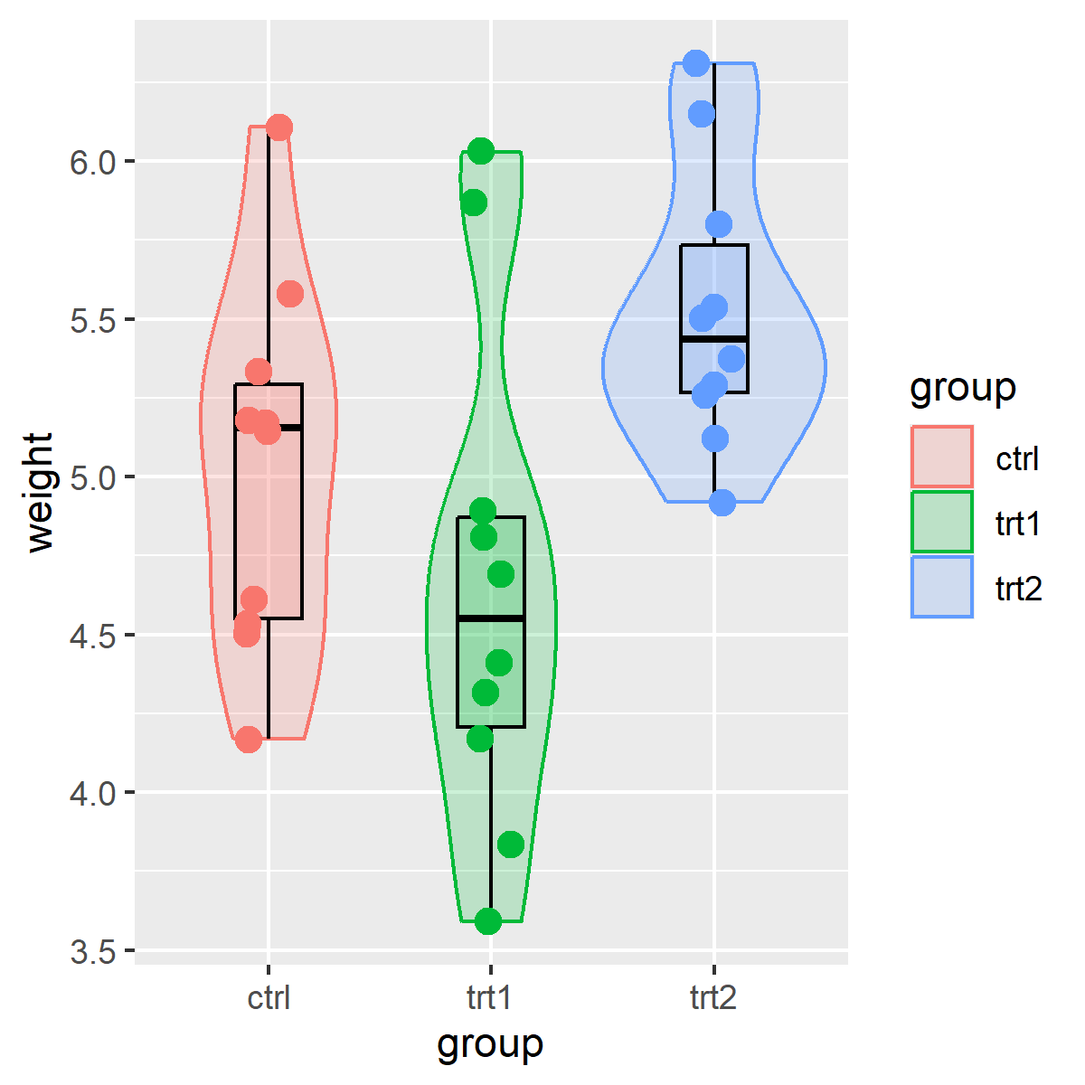
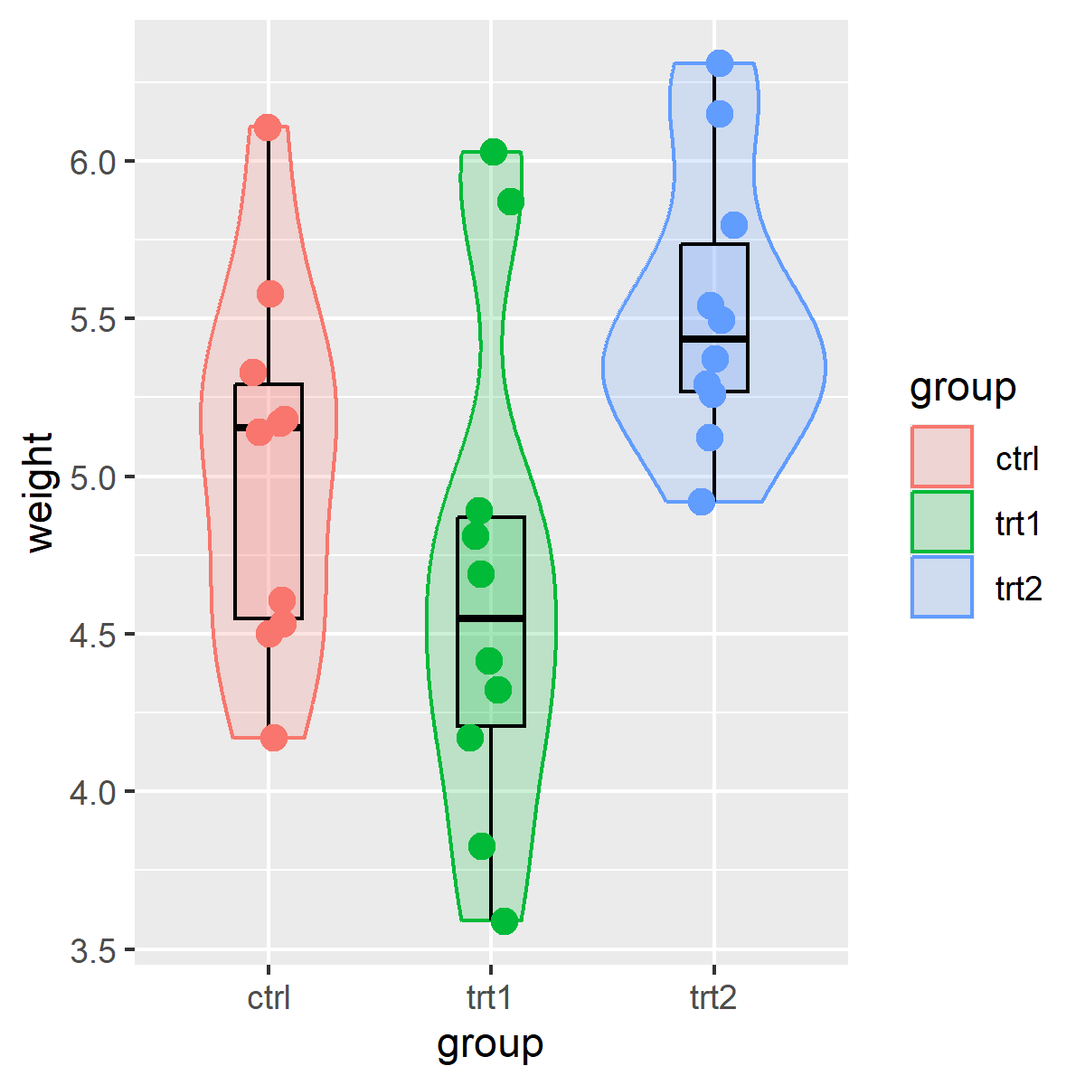
.

diff --git a/docs/posts/ggstatsplot/index.html b/docs/posts/ggstatsplot/index.html
@@ -219,46 +219,55 @@ pre > code.sourceCode > span > a:first-child::before { text-decoration: underlin
 
 <p><strong>Cần sắp xếp theo đúng thứ tự cột <code>x_ok</code> rồi mới vẽ đồ thị.</strong></p>
 <p><strong>Chỗ lệnh <code>p_gtable$grobs[[5]]</code>, thỉnh thoảng version cũ <code>ggplot2</code> sẽ chỉnh về <code>p_gtable$grobs[[6]]</code> hoặc ta sẽ dò thủ công lại vị trí của các grid object này.</strong></p>
+<p><strong>Download dataset <a href="https://filedn.com/lesyJpQOCafj7katNqunAxu/SHARE/df2.rds"><code>df2</code></a></strong></p>
 <div class="cell">
-<div class="code-copy-outer-scaffold"><div class="sourceCode cell-code" id="cb1"><pre class="sourceCode r code-with-copy"><code class="sourceCode r"><span id="cb1-1"><a href="#cb1-1" aria-hidden="true" tabindex="-1"></a>df <span class="ot">&lt;-</span> PlantGrowth</span>
-<span id="cb1-2"><a href="#cb1-2" aria-hidden="true" tabindex="-1"></a><span class="fu">names</span>(df) <span class="ot">&lt;-</span> <span class="fu">c</span>(<span class="st">"y_ok"</span>, <span class="st">"x_ok"</span>)</span>
-<span id="cb1-3"><a href="#cb1-3" aria-hidden="true" tabindex="-1"></a></span>
-<span id="cb1-4"><a href="#cb1-4" aria-hidden="true" tabindex="-1"></a><span class="fu">library</span>(dplyr)</span>
-<span id="cb1-5"><a href="#cb1-5" aria-hidden="true" tabindex="-1"></a>df <span class="sc">|&gt;</span> dplyr<span class="sc">:::</span><span class="fu">arrange</span>(x_ok) <span class="ot">-&gt;</span> df</span>
-<span id="cb1-6"><a href="#cb1-6" aria-hidden="true" tabindex="-1"></a></span>
-<span id="cb1-7"><a href="#cb1-7" aria-hidden="true" tabindex="-1"></a>df</span></code></pre></div><button title="Copy to Clipboard" class="code-copy-button"><i class="bi"></i></button></div>
+<div class="code-copy-outer-scaffold"><div class="sourceCode cell-code" id="cb1"><pre class="sourceCode r code-with-copy"><code class="sourceCode r"><span id="cb1-1"><a href="#cb1-1" aria-hidden="true" tabindex="-1"></a><span class="co"># df &lt;- PlantGrowth</span></span>
+<span id="cb1-2"><a href="#cb1-2" aria-hidden="true" tabindex="-1"></a><span class="co"># names(df) &lt;- c("y_ok", "x_ok")</span></span>
+<span id="cb1-3"><a href="#cb1-3" aria-hidden="true" tabindex="-1"></a><span class="co"># </span></span>
+<span id="cb1-4"><a href="#cb1-4" aria-hidden="true" tabindex="-1"></a><span class="co"># library(dplyr)</span></span>
+<span id="cb1-5"><a href="#cb1-5" aria-hidden="true" tabindex="-1"></a><span class="co"># df |&gt; dplyr:::arrange(x_ok) -&gt; df</span></span>
+<span id="cb1-6"><a href="#cb1-6" aria-hidden="true" tabindex="-1"></a><span class="co"># </span></span>
+<span id="cb1-7"><a href="#cb1-7" aria-hidden="true" tabindex="-1"></a><span class="co"># df</span></span>
+<span id="cb1-8"><a href="#cb1-8" aria-hidden="true" tabindex="-1"></a></span>
+<span id="cb1-9"><a href="#cb1-9" aria-hidden="true" tabindex="-1"></a>df <span class="ot">&lt;-</span> <span class="fu">readRDS</span>(<span class="fu">paste0</span>(<span class="fu">getwd</span>(), <span class="st">"/df2.rds"</span>))</span>
+<span id="cb1-10"><a href="#cb1-10" aria-hidden="true" tabindex="-1"></a></span>
+<span id="cb1-11"><a href="#cb1-11" aria-hidden="true" tabindex="-1"></a>df <span class="ot">&lt;-</span> df[ , <span class="sc">-</span><span class="dv">5</span>]</span>
+<span id="cb1-12"><a href="#cb1-12" aria-hidden="true" tabindex="-1"></a></span>
+<span id="cb1-13"><a href="#cb1-13" aria-hidden="true" tabindex="-1"></a></span>
+<span id="cb1-14"><a href="#cb1-14" aria-hidden="true" tabindex="-1"></a><span class="fu">library</span>(dplyr)</span>
+<span id="cb1-15"><a href="#cb1-15" aria-hidden="true" tabindex="-1"></a>df <span class="sc">|&gt;</span> dplyr<span class="sc">:::</span><span class="fu">arrange</span>(STUDY_ARM) <span class="ot">-&gt;</span> df</span>
+<span id="cb1-16"><a href="#cb1-16" aria-hidden="true" tabindex="-1"></a></span>
+<span id="cb1-17"><a href="#cb1-17" aria-hidden="true" tabindex="-1"></a>df</span></code></pre></div><button title="Copy to Clipboard" class="code-copy-button"><i class="bi"></i></button></div>
 <div class="cell-output cell-output-stdout">
-<pre><code>   y_ok x_ok
-1  4.17 ctrl
-2  5.58 ctrl
-3  5.18 ctrl
-4  6.11 ctrl
-5  4.50 ctrl
-6  4.61 ctrl
-7  5.17 ctrl
-8  4.53 ctrl
-9  5.33 ctrl
-10 5.14 ctrl
-11 4.81 trt1
-12 4.17 trt1
-13 4.41 trt1
-14 3.59 trt1
-15 5.87 trt1
-16 3.83 trt1
-17 6.03 trt1
-18 4.89 trt1
-19 4.32 trt1
-20 4.69 trt1
-21 6.31 trt2
-22 5.12 trt2
-23 5.54 trt2
-24 5.50 trt2
-25 5.37 trt2
-26 5.29 trt2
-27 4.92 trt2
-28 6.15 trt2
-29 5.80 trt2
-30 5.26 trt2</code></pre>
+<pre><code>   STUDY_ID     STUDY_ARM BEGIN_CD3+_T_CELL_FREQ FU_CD3+_T_CELL_FREQ_ok
+1      ID_1   CONTROL_OLD              12.063157              12.063157
+2      ID_2   CONTROL_OLD              10.964920              10.964920
+3      ID_4   CONTROL_OLD              13.720531              13.720531
+4      ID_5   CONTROL_OLD              10.207501              10.207501
+5      ID_6   CONTROL_OLD              10.781260              10.781260
+6      ID_7   CONTROL_OLD               8.561287               8.561287
+7      ID_9   CONTROL_OLD              12.419222              12.419222
+8     ID_11   CONTROL_OLD               9.877577               9.877577
+9     ID_12   CONTROL_OLD              11.327839              11.327839
+10    ID_15   CONTROL_OLD              12.618815              12.618815
+11    ID_16   CONTROL_OLD               9.354778               9.354778
+12    ID_18   CONTROL_OLD              10.481444              10.481444
+13    ID_19   CONTROL_OLD              10.954867              10.954867
+14    ID_29   CONTROL_OLD              10.438020              10.438020
+15    ID_21 CONTROL_YOUNG              12.011571              12.011571
+16    ID_23 CONTROL_YOUNG              12.267157              12.267157
+17    ID_27 CONTROL_YOUNG               9.660034               9.660034
+18    ID_28 CONTROL_YOUNG              12.845677              12.845677
+19     ID_3          YEGD               6.135557              15.411331
+20     ID_8          YEGD              10.378400              36.150698
+21    ID_10          YEGD               4.698543              53.858413
+22    ID_17          YEGD               4.883078              30.915139
+23    ID_20          YEGD              10.257006              12.503797
+24    ID_22          YEGD               9.304376              45.202878
+25    ID_24          YEGD               9.591158               8.710753
+26    ID_25          YEGD              10.470832              10.584096
+27    ID_26          YEGD              12.824044              42.963687
+28    ID_30          YEGD               9.466437              62.817237</code></pre>
 </div>
 </div>
 <div class="cell">
@@ -268,8 +277,8 @@ pre > code.sourceCode > span > a:first-child::before { text-decoration: underlin
 <span id="cb3-4"><a href="#cb3-4" aria-hidden="true" tabindex="-1"></a><span class="fu">library</span>(gridExtra)</span>
 <span id="cb3-5"><a href="#cb3-5" aria-hidden="true" tabindex="-1"></a></span>
 <span id="cb3-6"><a href="#cb3-6" aria-hidden="true" tabindex="-1"></a><span class="fu">png</span>(<span class="at">filename =</span> <span class="fu">paste0</span>(<span class="fu">getwd</span>(), <span class="st">"/g1.png"</span>),</span>
-<span id="cb3-7"><a href="#cb3-7" aria-hidden="true" tabindex="-1"></a>    <span class="at">width =</span> <span class="dv">6</span>,</span>
-<span id="cb3-8"><a href="#cb3-8" aria-hidden="true" tabindex="-1"></a>    <span class="at">height =</span> <span class="dv">6</span>,</span>
+<span id="cb3-7"><a href="#cb3-7" aria-hidden="true" tabindex="-1"></a>    <span class="at">width =</span> <span class="dv">8</span>,</span>
+<span id="cb3-8"><a href="#cb3-8" aria-hidden="true" tabindex="-1"></a>    <span class="at">height =</span> <span class="dv">8</span>,</span>
 <span id="cb3-9"><a href="#cb3-9" aria-hidden="true" tabindex="-1"></a>    <span class="at">units =</span> <span class="st">"in"</span>,</span>
 <span id="cb3-10"><a href="#cb3-10" aria-hidden="true" tabindex="-1"></a>    <span class="at">res =</span> <span class="dv">300</span>)</span>
 <span id="cb3-11"><a href="#cb3-11" aria-hidden="true" tabindex="-1"></a></span>
@@ -280,75 +289,88 @@ pre > code.sourceCode > span > a:first-child::before { text-decoration: underlin
 <span id="cb3-16"><a href="#cb3-16" aria-hidden="true" tabindex="-1"></a><span class="co"># options(pillar.sigfig = 4)</span></span>
 <span id="cb3-17"><a href="#cb3-17" aria-hidden="true" tabindex="-1"></a></span>
 <span id="cb3-18"><a href="#cb3-18" aria-hidden="true" tabindex="-1"></a></span>
-<span id="cb3-19"><a href="#cb3-19" aria-hidden="true" tabindex="-1"></a>p1 <span class="ot">&lt;-</span> <span class="fu">ggbetweenstats</span>(<span class="at">data =</span> df,</span>
-<span id="cb3-20"><a href="#cb3-20" aria-hidden="true" tabindex="-1"></a>                     <span class="at">x =</span> x_ok,</span>
-<span id="cb3-21"><a href="#cb3-21" aria-hidden="true" tabindex="-1"></a>                     <span class="at">y =</span> y_ok,</span>
-<span id="cb3-22"><a href="#cb3-22" aria-hidden="true" tabindex="-1"></a>                     <span class="at">type =</span> <span class="st">"nonparametric"</span>, </span>
-<span id="cb3-23"><a href="#cb3-23" aria-hidden="true" tabindex="-1"></a>                     <span class="at">plot.type =</span> <span class="st">"box"</span>,</span>
-<span id="cb3-24"><a href="#cb3-24" aria-hidden="true" tabindex="-1"></a>                     <span class="at">pairwise.comparisons =</span> T,</span>
-<span id="cb3-25"><a href="#cb3-25" aria-hidden="true" tabindex="-1"></a>                     <span class="at">pairwise.display =</span> <span class="st">"significant"</span>,</span>
-<span id="cb3-26"><a href="#cb3-26" aria-hidden="true" tabindex="-1"></a>                     <span class="at">p.adjust.method =</span> <span class="st">"bonferroni"</span>,</span>
-<span id="cb3-27"><a href="#cb3-27" aria-hidden="true" tabindex="-1"></a>                     <span class="at">centrality.plotting =</span> F,</span>
-<span id="cb3-28"><a href="#cb3-28" aria-hidden="true" tabindex="-1"></a>                     <span class="at">centrality.path =</span> <span class="cn">FALSE</span>,</span>
-<span id="cb3-29"><a href="#cb3-29" aria-hidden="true" tabindex="-1"></a>                     <span class="at">digits =</span> <span class="dv">4</span>L,</span>
-<span id="cb3-30"><a href="#cb3-30" aria-hidden="true" tabindex="-1"></a>                     <span class="at">ggtheme =</span> <span class="fu">theme_classic</span>(<span class="at">base_size =</span> <span class="dv">14</span>),</span>
-<span id="cb3-31"><a href="#cb3-31" aria-hidden="true" tabindex="-1"></a>                     <span class="at">bf.message =</span> F,</span>
-<span id="cb3-32"><a href="#cb3-32" aria-hidden="true" tabindex="-1"></a>                     <span class="at">results.subtitle =</span> F,</span>
-<span id="cb3-33"><a href="#cb3-33" aria-hidden="true" tabindex="-1"></a>                     <span class="at">caption =</span> <span class="st">""</span>,</span>
-<span id="cb3-34"><a href="#cb3-34" aria-hidden="true" tabindex="-1"></a>                     <span class="at">ggsignif.args =</span> <span class="fu">list</span>(<span class="at">size =</span> <span class="fl">0.5</span>,</span>
-<span id="cb3-35"><a href="#cb3-35" aria-hidden="true" tabindex="-1"></a>                                          <span class="at">vjust =</span> <span class="dv">0</span>,</span>
-<span id="cb3-36"><a href="#cb3-36" aria-hidden="true" tabindex="-1"></a>                                          <span class="at">step_increase =</span> <span class="fl">0.15</span>,</span>
-<span id="cb3-37"><a href="#cb3-37" aria-hidden="true" tabindex="-1"></a>                                          <span class="at">textsize =</span> <span class="dv">4</span>),</span>
-<span id="cb3-38"><a href="#cb3-38" aria-hidden="true" tabindex="-1"></a>                     <span class="at">violin.args =</span> <span class="fu">list</span>(<span class="at">width =</span> <span class="dv">0</span>, <span class="at">linewidth =</span> <span class="dv">0</span>, <span class="at">colour =</span> <span class="cn">NA</span>),</span>
-<span id="cb3-39"><a href="#cb3-39" aria-hidden="true" tabindex="-1"></a>                     <span class="at">boxplot.args =</span> <span class="fu">list</span>(<span class="at">width =</span> <span class="dv">0</span>),</span>
-<span id="cb3-40"><a href="#cb3-40" aria-hidden="true" tabindex="-1"></a>                     <span class="at">point.args =</span> <span class="fu">list</span>(<span class="at">position =</span> ggplot2<span class="sc">::</span><span class="fu">position_jitterdodge</span>(<span class="at">dodge.width =</span> <span class="fl">0.6</span>),</span>
-<span id="cb3-41"><a href="#cb3-41" aria-hidden="true" tabindex="-1"></a>                                       <span class="at">alpha =</span> <span class="dv">1</span>,</span>
-<span id="cb3-42"><a href="#cb3-42" aria-hidden="true" tabindex="-1"></a>                                       <span class="at">size =</span> <span class="dv">6</span>,</span>
-<span id="cb3-43"><a href="#cb3-43" aria-hidden="true" tabindex="-1"></a>                                       <span class="at">stroke =</span> <span class="dv">0</span>, </span>
-<span id="cb3-44"><a href="#cb3-44" aria-hidden="true" tabindex="-1"></a>                                       <span class="at">na.rm =</span> <span class="cn">TRUE</span>),</span>
-<span id="cb3-45"><a href="#cb3-45" aria-hidden="true" tabindex="-1"></a>                     ) <span class="sc">+</span></span>
-<span id="cb3-46"><a href="#cb3-46" aria-hidden="true" tabindex="-1"></a>  </span>
-<span id="cb3-47"><a href="#cb3-47" aria-hidden="true" tabindex="-1"></a>  <span class="fu">theme</span>(<span class="at">legend.position =</span> <span class="st">"none"</span>) <span class="sc">+</span></span>
-<span id="cb3-48"><a href="#cb3-48" aria-hidden="true" tabindex="-1"></a>  </span>
-<span id="cb3-49"><a href="#cb3-49" aria-hidden="true" tabindex="-1"></a>  <span class="fu">geom_boxplot</span>(<span class="at">median.color =</span> <span class="st">"black"</span>,</span>
-<span id="cb3-50"><a href="#cb3-50" aria-hidden="true" tabindex="-1"></a>               <span class="at">color =</span> <span class="cn">NA</span>,</span>
-<span id="cb3-51"><a href="#cb3-51" aria-hidden="true" tabindex="-1"></a>               <span class="at">fill =</span> <span class="cn">NA</span>) <span class="sc">+</span></span>
-<span id="cb3-52"><a href="#cb3-52" aria-hidden="true" tabindex="-1"></a>  </span>
-<span id="cb3-53"><a href="#cb3-53" aria-hidden="true" tabindex="-1"></a>  <span class="fu">labs</span>(<span class="at">color =</span> <span class="st">"Note"</span>)</span>
-<span id="cb3-54"><a href="#cb3-54" aria-hidden="true" tabindex="-1"></a></span>
-<span id="cb3-55"><a href="#cb3-55" aria-hidden="true" tabindex="-1"></a>b1 <span class="ot">&lt;-</span> <span class="fu">ggplot_build</span>(p1)</span>
-<span id="cb3-56"><a href="#cb3-56" aria-hidden="true" tabindex="-1"></a>p_gtable <span class="ot">&lt;-</span> <span class="fu">ggplot_gtable</span>(b1)</span>
-<span id="cb3-57"><a href="#cb3-57" aria-hidden="true" tabindex="-1"></a></span>
-<span id="cb3-58"><a href="#cb3-58" aria-hidden="true" tabindex="-1"></a>p_gtable <span class="ot">-&gt;</span> p_gtable_ori</span>
-<span id="cb3-59"><a href="#cb3-59" aria-hidden="true" tabindex="-1"></a></span>
-<span id="cb3-60"><a href="#cb3-60" aria-hidden="true" tabindex="-1"></a><span class="fu">library</span>(lemon)</span>
-<span id="cb3-61"><a href="#cb3-61" aria-hidden="true" tabindex="-1"></a>lemon<span class="sc">::</span><span class="fu">gtable_show_names</span>(p_gtable)</span>
-<span id="cb3-62"><a href="#cb3-62" aria-hidden="true" tabindex="-1"></a></span>
-<span id="cb3-63"><a href="#cb3-63" aria-hidden="true" tabindex="-1"></a>p_gtable<span class="sc">$</span>grobs[[<span class="dv">13</span>]]<span class="sc">$</span>children[[<span class="dv">1</span>]]<span class="sc">$</span>label <span class="ot">&lt;-</span> <span class="cn">NULL</span></span>
-<span id="cb3-64"><a href="#cb3-64" aria-hidden="true" tabindex="-1"></a></span>
-<span id="cb3-65"><a href="#cb3-65" aria-hidden="true" tabindex="-1"></a>p_gtable<span class="sc">$</span>grobs[[<span class="dv">5</span>]]<span class="sc">$</span>children[[<span class="dv">4</span>]] <span class="ot">&lt;-</span> <span class="cn">NULL</span></span>
-<span id="cb3-66"><a href="#cb3-66" aria-hidden="true" tabindex="-1"></a></span>
-<span id="cb3-67"><a href="#cb3-67" aria-hidden="true" tabindex="-1"></a>p_gtable<span class="sc">$</span>grobs[[<span class="dv">5</span>]]<span class="sc">$</span>children[[<span class="dv">3</span>]]<span class="sc">$</span>pch <span class="ot">&lt;-</span> <span class="fu">c</span>(<span class="fu">rep</span>(<span class="dv">15</span>,</span>
-<span id="cb3-68"><a href="#cb3-68" aria-hidden="true" tabindex="-1"></a>                                             <span class="at">times =</span> <span class="dv">10</span>),</span>
-<span id="cb3-69"><a href="#cb3-69" aria-hidden="true" tabindex="-1"></a>                                           <span class="fu">rep</span>(<span class="dv">16</span>,</span>
-<span id="cb3-70"><a href="#cb3-70" aria-hidden="true" tabindex="-1"></a>                                               <span class="at">times =</span> <span class="dv">10</span>),</span>
-<span id="cb3-71"><a href="#cb3-71" aria-hidden="true" tabindex="-1"></a>                                           <span class="fu">rep</span>(<span class="dv">17</span>,</span>
-<span id="cb3-72"><a href="#cb3-72" aria-hidden="true" tabindex="-1"></a>                                               <span class="at">times =</span> <span class="dv">10</span>)</span>
-<span id="cb3-73"><a href="#cb3-73" aria-hidden="true" tabindex="-1"></a>                                           )</span>
-<span id="cb3-74"><a href="#cb3-74" aria-hidden="true" tabindex="-1"></a></span>
-<span id="cb3-75"><a href="#cb3-75" aria-hidden="true" tabindex="-1"></a>p_gtable<span class="sc">$</span>grobs[[<span class="dv">5</span>]]<span class="sc">$</span>children[[<span class="dv">3</span>]]<span class="sc">$</span>gp<span class="sc">$</span>col <span class="ot">&lt;-</span> <span class="fu">c</span>(<span class="fu">rep</span>(<span class="fu">adjustcolor</span>(<span class="at">col =</span> <span class="st">"red"</span>, <span class="at">alpha.f =</span> <span class="fl">0.5</span>),</span>
-<span id="cb3-76"><a href="#cb3-76" aria-hidden="true" tabindex="-1"></a>                                                  <span class="at">times =</span> <span class="dv">10</span>),</span>
-<span id="cb3-77"><a href="#cb3-77" aria-hidden="true" tabindex="-1"></a>                                              <span class="fu">rep</span>(<span class="fu">adjustcolor</span>(<span class="at">col =</span> <span class="st">"blue"</span>, <span class="at">alpha.f =</span> <span class="fl">0.5</span>),</span>
-<span id="cb3-78"><a href="#cb3-78" aria-hidden="true" tabindex="-1"></a>                                                  <span class="at">times =</span> <span class="dv">10</span>),</span>
-<span id="cb3-79"><a href="#cb3-79" aria-hidden="true" tabindex="-1"></a>                                              <span class="fu">rep</span>(<span class="fu">adjustcolor</span>(<span class="at">col =</span> <span class="st">"darkgreen"</span>, <span class="at">alpha.f =</span> <span class="fl">0.5</span>),</span>
-<span id="cb3-80"><a href="#cb3-80" aria-hidden="true" tabindex="-1"></a>                                                  <span class="at">times =</span> <span class="dv">10</span>)</span>
-<span id="cb3-81"><a href="#cb3-81" aria-hidden="true" tabindex="-1"></a>)</span>
-<span id="cb3-82"><a href="#cb3-82" aria-hidden="true" tabindex="-1"></a></span>
-<span id="cb3-83"><a href="#cb3-83" aria-hidden="true" tabindex="-1"></a>grid<span class="sc">::</span><span class="fu">grid.newpage</span>()</span>
-<span id="cb3-84"><a href="#cb3-84" aria-hidden="true" tabindex="-1"></a>grid<span class="sc">::</span><span class="fu">grid.draw</span>(p_gtable)</span>
-<span id="cb3-85"><a href="#cb3-85" aria-hidden="true" tabindex="-1"></a></span>
+<span id="cb3-19"><a href="#cb3-19" aria-hidden="true" tabindex="-1"></a>p1 <span class="ot">&lt;-</span> <span class="fu">ggbetweenstats</span>(</span>
+<span id="cb3-20"><a href="#cb3-20" aria-hidden="true" tabindex="-1"></a>  </span>
+<span id="cb3-21"><a href="#cb3-21" aria-hidden="true" tabindex="-1"></a>                     <span class="co"># data = df,</span></span>
+<span id="cb3-22"><a href="#cb3-22" aria-hidden="true" tabindex="-1"></a>                     <span class="co"># x = x_ok,</span></span>
+<span id="cb3-23"><a href="#cb3-23" aria-hidden="true" tabindex="-1"></a>                     <span class="co"># y = y_ok,</span></span>
+<span id="cb3-24"><a href="#cb3-24" aria-hidden="true" tabindex="-1"></a>                     </span>
+<span id="cb3-25"><a href="#cb3-25" aria-hidden="true" tabindex="-1"></a>                     <span class="at">data =</span> df,</span>
+<span id="cb3-26"><a href="#cb3-26" aria-hidden="true" tabindex="-1"></a>                     <span class="at">x =</span> STUDY_ARM,</span>
+<span id="cb3-27"><a href="#cb3-27" aria-hidden="true" tabindex="-1"></a>                     <span class="at">y =</span> <span class="st">`</span><span class="at">FU_CD3+_T_CELL_FREQ_ok</span><span class="st">`</span>,</span>
+<span id="cb3-28"><a href="#cb3-28" aria-hidden="true" tabindex="-1"></a>                     </span>
+<span id="cb3-29"><a href="#cb3-29" aria-hidden="true" tabindex="-1"></a>                     </span>
+<span id="cb3-30"><a href="#cb3-30" aria-hidden="true" tabindex="-1"></a>                     <span class="at">type =</span> <span class="st">"nonparametric"</span>, </span>
+<span id="cb3-31"><a href="#cb3-31" aria-hidden="true" tabindex="-1"></a>                     <span class="at">plot.type =</span> <span class="st">"box"</span>,</span>
+<span id="cb3-32"><a href="#cb3-32" aria-hidden="true" tabindex="-1"></a>                     <span class="at">pairwise.comparisons =</span> T,</span>
+<span id="cb3-33"><a href="#cb3-33" aria-hidden="true" tabindex="-1"></a>                     <span class="at">pairwise.display =</span> <span class="st">"significant"</span>,</span>
+<span id="cb3-34"><a href="#cb3-34" aria-hidden="true" tabindex="-1"></a>                     <span class="at">p.adjust.method =</span> <span class="st">"bonferroni"</span>,</span>
+<span id="cb3-35"><a href="#cb3-35" aria-hidden="true" tabindex="-1"></a>                     <span class="at">centrality.plotting =</span> F,</span>
+<span id="cb3-36"><a href="#cb3-36" aria-hidden="true" tabindex="-1"></a>                     <span class="at">centrality.path =</span> <span class="cn">FALSE</span>,</span>
+<span id="cb3-37"><a href="#cb3-37" aria-hidden="true" tabindex="-1"></a>                     <span class="at">digits =</span> <span class="dv">4</span>L,</span>
+<span id="cb3-38"><a href="#cb3-38" aria-hidden="true" tabindex="-1"></a>                     <span class="at">ggtheme =</span> <span class="fu">theme_classic</span>(<span class="at">base_size =</span> <span class="dv">20</span>),</span>
+<span id="cb3-39"><a href="#cb3-39" aria-hidden="true" tabindex="-1"></a>                     <span class="at">bf.message =</span> F,</span>
+<span id="cb3-40"><a href="#cb3-40" aria-hidden="true" tabindex="-1"></a>                     <span class="at">results.subtitle =</span> F,</span>
+<span id="cb3-41"><a href="#cb3-41" aria-hidden="true" tabindex="-1"></a>                     <span class="at">caption =</span> <span class="st">""</span>,</span>
+<span id="cb3-42"><a href="#cb3-42" aria-hidden="true" tabindex="-1"></a>                     <span class="at">ggsignif.args =</span> <span class="fu">list</span>(<span class="at">size =</span> <span class="fl">0.5</span>,</span>
+<span id="cb3-43"><a href="#cb3-43" aria-hidden="true" tabindex="-1"></a>                                          <span class="at">vjust =</span> <span class="dv">0</span>,</span>
+<span id="cb3-44"><a href="#cb3-44" aria-hidden="true" tabindex="-1"></a>                                          <span class="at">step_increase =</span> <span class="fl">0.15</span>,</span>
+<span id="cb3-45"><a href="#cb3-45" aria-hidden="true" tabindex="-1"></a>                                          <span class="at">textsize =</span> <span class="dv">8</span>),</span>
+<span id="cb3-46"><a href="#cb3-46" aria-hidden="true" tabindex="-1"></a>                     <span class="at">violin.args =</span> <span class="fu">list</span>(<span class="at">width =</span> <span class="dv">0</span>, <span class="at">linewidth =</span> <span class="dv">0</span>, <span class="at">colour =</span> <span class="cn">NA</span>),</span>
+<span id="cb3-47"><a href="#cb3-47" aria-hidden="true" tabindex="-1"></a>                     <span class="at">boxplot.args =</span> <span class="fu">list</span>(<span class="at">width =</span> <span class="dv">0</span>),</span>
+<span id="cb3-48"><a href="#cb3-48" aria-hidden="true" tabindex="-1"></a>                     <span class="at">point.args =</span> <span class="fu">list</span>(<span class="at">position =</span> ggplot2<span class="sc">::</span><span class="fu">position_jitterdodge</span>(<span class="at">dodge.width =</span> <span class="fl">0.6</span>),</span>
+<span id="cb3-49"><a href="#cb3-49" aria-hidden="true" tabindex="-1"></a>                                       <span class="at">alpha =</span> <span class="dv">1</span>,</span>
+<span id="cb3-50"><a href="#cb3-50" aria-hidden="true" tabindex="-1"></a>                                       <span class="at">size =</span> <span class="dv">6</span>,</span>
+<span id="cb3-51"><a href="#cb3-51" aria-hidden="true" tabindex="-1"></a>                                       <span class="at">stroke =</span> <span class="dv">0</span>, </span>
+<span id="cb3-52"><a href="#cb3-52" aria-hidden="true" tabindex="-1"></a>                                       <span class="at">na.rm =</span> <span class="cn">TRUE</span>),</span>
+<span id="cb3-53"><a href="#cb3-53" aria-hidden="true" tabindex="-1"></a>                     ) <span class="sc">+</span></span>
+<span id="cb3-54"><a href="#cb3-54" aria-hidden="true" tabindex="-1"></a>  </span>
+<span id="cb3-55"><a href="#cb3-55" aria-hidden="true" tabindex="-1"></a>  <span class="fu">theme</span>(<span class="at">legend.position =</span> <span class="st">"none"</span>) <span class="sc">+</span></span>
+<span id="cb3-56"><a href="#cb3-56" aria-hidden="true" tabindex="-1"></a>  </span>
+<span id="cb3-57"><a href="#cb3-57" aria-hidden="true" tabindex="-1"></a>  <span class="fu">geom_boxplot</span>(<span class="at">median.color =</span> <span class="st">"black"</span>,</span>
+<span id="cb3-58"><a href="#cb3-58" aria-hidden="true" tabindex="-1"></a>               <span class="at">color =</span> <span class="cn">NA</span>,</span>
+<span id="cb3-59"><a href="#cb3-59" aria-hidden="true" tabindex="-1"></a>               <span class="at">fill =</span> <span class="cn">NA</span>) <span class="sc">+</span></span>
+<span id="cb3-60"><a href="#cb3-60" aria-hidden="true" tabindex="-1"></a>  </span>
+<span id="cb3-61"><a href="#cb3-61" aria-hidden="true" tabindex="-1"></a>  <span class="fu">labs</span>(<span class="at">color =</span> <span class="st">"Note"</span>) <span class="sc">+</span></span>
+<span id="cb3-62"><a href="#cb3-62" aria-hidden="true" tabindex="-1"></a>  </span>
+<span id="cb3-63"><a href="#cb3-63" aria-hidden="true" tabindex="-1"></a>  <span class="fu">coord_cartesian</span>(<span class="at">ylim =</span> <span class="fu">c</span>(<span class="dv">0</span>, <span class="dv">70</span>),</span>
+<span id="cb3-64"><a href="#cb3-64" aria-hidden="true" tabindex="-1"></a>                  <span class="at">clip =</span> <span class="st">"off"</span>)</span>
+<span id="cb3-65"><a href="#cb3-65" aria-hidden="true" tabindex="-1"></a></span>
+<span id="cb3-66"><a href="#cb3-66" aria-hidden="true" tabindex="-1"></a>b1 <span class="ot">&lt;-</span> <span class="fu">ggplot_build</span>(p1)</span>
+<span id="cb3-67"><a href="#cb3-67" aria-hidden="true" tabindex="-1"></a>p_gtable <span class="ot">&lt;-</span> <span class="fu">ggplot_gtable</span>(b1)</span>
+<span id="cb3-68"><a href="#cb3-68" aria-hidden="true" tabindex="-1"></a></span>
+<span id="cb3-69"><a href="#cb3-69" aria-hidden="true" tabindex="-1"></a>p_gtable <span class="ot">-&gt;</span> p_gtable_ori</span>
+<span id="cb3-70"><a href="#cb3-70" aria-hidden="true" tabindex="-1"></a></span>
+<span id="cb3-71"><a href="#cb3-71" aria-hidden="true" tabindex="-1"></a><span class="fu">library</span>(lemon)</span>
+<span id="cb3-72"><a href="#cb3-72" aria-hidden="true" tabindex="-1"></a>lemon<span class="sc">::</span><span class="fu">gtable_show_names</span>(p_gtable)</span>
+<span id="cb3-73"><a href="#cb3-73" aria-hidden="true" tabindex="-1"></a></span>
+<span id="cb3-74"><a href="#cb3-74" aria-hidden="true" tabindex="-1"></a>p_gtable<span class="sc">$</span>grobs[[<span class="dv">13</span>]]<span class="sc">$</span>children[[<span class="dv">1</span>]]<span class="sc">$</span>label <span class="ot">&lt;-</span> <span class="cn">NULL</span></span>
+<span id="cb3-75"><a href="#cb3-75" aria-hidden="true" tabindex="-1"></a></span>
+<span id="cb3-76"><a href="#cb3-76" aria-hidden="true" tabindex="-1"></a>p_gtable<span class="sc">$</span>grobs[[<span class="dv">5</span>]]<span class="sc">$</span>children[[<span class="dv">4</span>]] <span class="ot">&lt;-</span> <span class="cn">NULL</span></span>
+<span id="cb3-77"><a href="#cb3-77" aria-hidden="true" tabindex="-1"></a></span>
+<span id="cb3-78"><a href="#cb3-78" aria-hidden="true" tabindex="-1"></a><span class="co"># chinh so luong o day, check table(df$STUDYARM)</span></span>
+<span id="cb3-79"><a href="#cb3-79" aria-hidden="true" tabindex="-1"></a>p_gtable<span class="sc">$</span>grobs[[<span class="dv">5</span>]]<span class="sc">$</span>children[[<span class="dv">3</span>]]<span class="sc">$</span>pch <span class="ot">&lt;-</span> <span class="fu">c</span>(<span class="fu">rep</span>(<span class="dv">15</span>,</span>
+<span id="cb3-80"><a href="#cb3-80" aria-hidden="true" tabindex="-1"></a>                                             <span class="at">times =</span> <span class="dv">14</span>),</span>
+<span id="cb3-81"><a href="#cb3-81" aria-hidden="true" tabindex="-1"></a>                                           <span class="fu">rep</span>(<span class="dv">16</span>,</span>
+<span id="cb3-82"><a href="#cb3-82" aria-hidden="true" tabindex="-1"></a>                                               <span class="at">times =</span> <span class="dv">4</span>),</span>
+<span id="cb3-83"><a href="#cb3-83" aria-hidden="true" tabindex="-1"></a>                                           <span class="fu">rep</span>(<span class="dv">17</span>,</span>
+<span id="cb3-84"><a href="#cb3-84" aria-hidden="true" tabindex="-1"></a>                                               <span class="at">times =</span> <span class="dv">10</span>)</span>
+<span id="cb3-85"><a href="#cb3-85" aria-hidden="true" tabindex="-1"></a>                                           )</span>
 <span id="cb3-86"><a href="#cb3-86" aria-hidden="true" tabindex="-1"></a></span>
-<span id="cb3-87"><a href="#cb3-87" aria-hidden="true" tabindex="-1"></a><span class="fu">dev.off</span>()</span></code></pre></div><button title="Copy to Clipboard" class="code-copy-button"><i class="bi"></i></button></div>
+<span id="cb3-87"><a href="#cb3-87" aria-hidden="true" tabindex="-1"></a><span class="co"># chinh so luong o day, check table(df$STUDYARM)</span></span>
+<span id="cb3-88"><a href="#cb3-88" aria-hidden="true" tabindex="-1"></a>p_gtable<span class="sc">$</span>grobs[[<span class="dv">5</span>]]<span class="sc">$</span>children[[<span class="dv">3</span>]]<span class="sc">$</span>gp<span class="sc">$</span>col <span class="ot">&lt;-</span> <span class="fu">c</span>(<span class="fu">rep</span>(<span class="fu">adjustcolor</span>(<span class="at">col =</span> <span class="st">"red"</span>, <span class="at">alpha.f =</span> <span class="fl">0.5</span>),</span>
+<span id="cb3-89"><a href="#cb3-89" aria-hidden="true" tabindex="-1"></a>                                                  <span class="at">times =</span> <span class="dv">14</span>),</span>
+<span id="cb3-90"><a href="#cb3-90" aria-hidden="true" tabindex="-1"></a>                                              <span class="fu">rep</span>(<span class="fu">adjustcolor</span>(<span class="at">col =</span> <span class="st">"blue"</span>, <span class="at">alpha.f =</span> <span class="fl">0.5</span>),</span>
+<span id="cb3-91"><a href="#cb3-91" aria-hidden="true" tabindex="-1"></a>                                                  <span class="at">times =</span> <span class="dv">4</span>),</span>
+<span id="cb3-92"><a href="#cb3-92" aria-hidden="true" tabindex="-1"></a>                                              <span class="fu">rep</span>(<span class="fu">adjustcolor</span>(<span class="at">col =</span> <span class="st">"darkgreen"</span>, <span class="at">alpha.f =</span> <span class="fl">0.5</span>),</span>
+<span id="cb3-93"><a href="#cb3-93" aria-hidden="true" tabindex="-1"></a>                                                  <span class="at">times =</span> <span class="dv">10</span>)</span>
+<span id="cb3-94"><a href="#cb3-94" aria-hidden="true" tabindex="-1"></a>)</span>
+<span id="cb3-95"><a href="#cb3-95" aria-hidden="true" tabindex="-1"></a></span>
+<span id="cb3-96"><a href="#cb3-96" aria-hidden="true" tabindex="-1"></a>grid<span class="sc">::</span><span class="fu">grid.newpage</span>()</span>
+<span id="cb3-97"><a href="#cb3-97" aria-hidden="true" tabindex="-1"></a>grid<span class="sc">::</span><span class="fu">grid.draw</span>(p_gtable)</span>
+<span id="cb3-98"><a href="#cb3-98" aria-hidden="true" tabindex="-1"></a></span>
+<span id="cb3-99"><a href="#cb3-99" aria-hidden="true" tabindex="-1"></a></span>
+<span id="cb3-100"><a href="#cb3-100" aria-hidden="true" tabindex="-1"></a><span class="fu">dev.off</span>()</span></code></pre></div><button title="Copy to Clipboard" class="code-copy-button"><i class="bi"></i></button></div>
 </div>
 <p><a href="g1.png" class="lightbox" data-gallery="quarto-lightbox-gallery-1"><img src="g1.png" class="img-fluid" style="width:70.0%"></a></p>
 

diff --git a/docs/index.html b/docs/index.html
@@ -228,7 +228,7 @@ window.Quarto = {
     </div>
 </div>
 <div class="list grid quarto-listing-cols-3">
-<div class="g-col-1" data-index="0" data-categories="QU5PVkE=" data-listing-date-sort="1791778466000" data-listing-file-modified-sort="1791778466431" data-listing-date-modified-sort="NaN" data-listing-reading-time-sort="8" data-listing-word-count-sort="1503">
+<div class="g-col-1" data-index="0" data-categories="QU5PVkE=" data-listing-date-sort="1791779806000" data-listing-file-modified-sort="1791779806110" data-listing-date-modified-sort="NaN" data-listing-reading-time-sort="9" data-listing-word-count-sort="1723">
 <a href="./posts/ggstatsplot/index.html" class="quarto-grid-link">
 <div class="quarto-grid-item card h-100 card-left">
 <p class="card-img-top">
